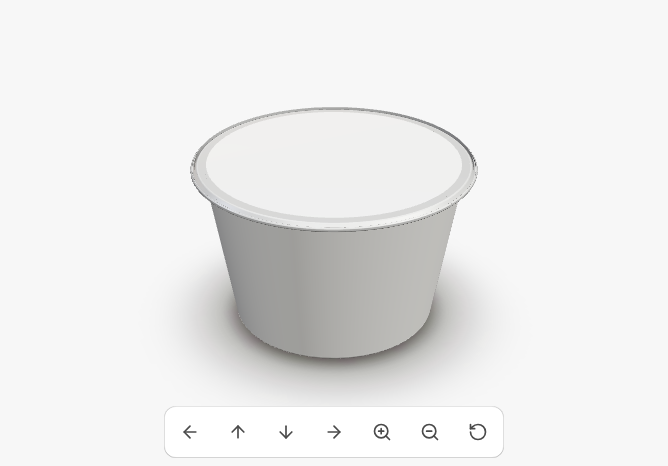
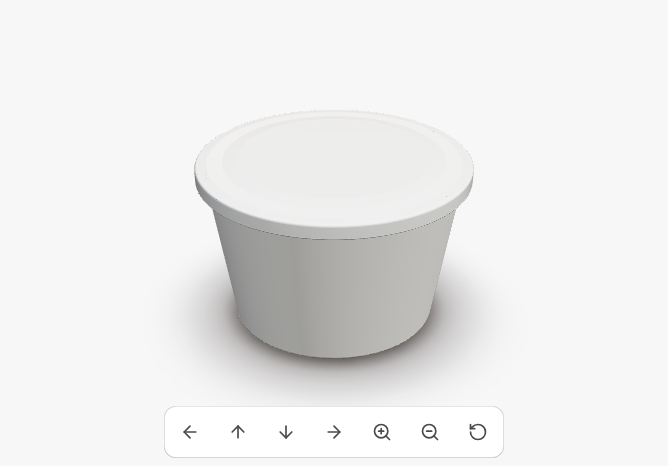
3d(cans): drop the remaining lid hacks, use engine lid styles (round 3)
Merge 3d-engine 4d9d1e7. Square tins use the section-following core SLIP_LID / PLUG_LID style,
paint the LEVER_LID, the deodorant stick a TWIST_UP cap anchored flush with the case top, the
rectangular tub SNAP_LID and the clamshell HINGED_LID over a base tray sized so the closed height
stays H. No renderer closure is hidden or shrunk any more; closureY is only an anchor.

Claude-Session: https://claude.ai/code/session_01ErLBsbrJGKcLzRPdTmLyhq

diff --git a/src/lib/vessels/families/cosmetic-cans/geometry.ts b/src/lib/vessels/families/cosmetic-cans/geometry.ts
@@ -108,23 +108,12 @@ interface Built {
   lid: LidGeometry | null;
   closedH: Mm;
   /**
-   * Where the renderer anchors the nearest core closure (profile.finishTopY). The core closure
-   * models are round and generic; when the real closure is already part of this profile (square
-   * slip lids, lever lids, stick caps) the anchor is moved inside the closed body so the generic
-   * model stays hidden, and for ring-pull ends it is set so the core pull tab lies in the
-   * countersink (tab underside = finishTopY - 5.15 mm).
+   * Where the renderer anchors the closure (profile.finishTopY) when it is not the top of the
+   * profile: the end panel of ring-pull / foil ends, and the anchor that puts a renderer overcap
+   * (BULLET_CAP, TWIST_UP) flush with the case top.
    */
   closureY?: Mm;
-  /** Radius the core closure is built at (profile.finishR); a tiny radius shrinks it out of sight under a lid in the profile. */
-  closureR?: Mm;
 }
-
-/**
- * Closure anchor for clear-plastic tubs and trays whose lid is in the profile: the core closure is
- * shrunk (closureR) and parked just under the base, so it does not show through the clear lid.
- */
-const CLEAR_HIDE_Y: Mm = -2.5;
-
 
 function bottle(s: Extract<ShapeSpec, { type: "bottle" }>, d: CatalogueDims, neck: NeckFinish): Built {
   const R = d.D / 2;
@@ -181,9 +170,12 @@ function radiusAtCtrl(R: Mm, neckR: Mm, t: number, shoulder: "round" | "flat" | 
 function caseShape(s: Extract<ShapeSpec, { type: "case" }>, d: CatalogueDims): Built {
   const R = d.D / 2;
   const H = d.H;
-  // a bullet overcap (renderer BULLET_CAP, h = max(24, 3.2 (R + 1))) hides the split groove under its edge
+  // Overcaps drawn by the renderer; the split groove sits under the cap edge.
+  // BULLET_CAP (lipstick): h = max(24, 3.2 (R + 1)), top = anchor + 0.45 h.
+  // TWIST_UP (stick): from anchor - 18 to anchor + max(8, (R + 0.6) / 2).
   const bulletH = Math.max(24, 3.2 * (R + 1));
-  const split = s.cap === "bullet" ? Math.max(H * 0.3, H - bulletH + 0.8) : H * s.capSplit;
+  const twistUp = Math.max(8, (R + 0.6) * 0.5);
+  const split = s.cap === "bullet" ? Math.max(H * 0.3, H - bulletH + 0.8) : s.cap === "twist" ? Math.max(H * 0.3, H - twistUp - 18 + 0.8) : H * s.capSplit;
   const ch = Math.min(1.2, R * 0.08);
   const ctrl: ControlPoint[] = [
     { r: 0, y: 0 },
@@ -208,10 +200,8 @@ function caseShape(s: Extract<ShapeSpec, { type: "case" }>, d: CatalogueDims): B
     fillMaxY: split,
   });
   const lid: LidGeometry = { type: s.capSplit > 0.5 && H < 35 ? "hinged" : "slip", section: s.section, y0: split, y1: H, r: R, depthRatio: (d.G ?? d.D) / d.D, topR: R - ch - 2 };
-  // Non-round cases (oval deodorant stick): the round core cap would overhang the oval; the cap is
-  // already in this profile, so hide the core closure inside it.
-  // anchor the bullet cap (top = anchor + 0.45 h) so its top is the case top
-  const closureY = s.cap === "bullet" ? H - 0.45 * bulletH : isRound(s.section) ? undefined : H - 4;
+  // anchor the renderer's overcap so its top is the case top
+  const closureY = s.cap === "bullet" ? H - 0.45 * bulletH : s.cap === "twist" ? H - twistUp : undefined;
   return { profile, innerTopY: split, sleeveY0: 0.5, sleeveY1: H - 0.5, lid, closedH: H, closureY };
 }
 
@@ -358,11 +348,10 @@ function metalcan(s: Extract<ShapeSpec, { type: "metalcan" }>, d: CatalogueDims)
     depthRatio: section.kind === "round" ? 1 : section.depthRatio,
     topR: R - endIn - 2,
   };
-  // Closure anchor on the end panel: the renderer's mouth styles (EOE_RING ring pull, PEEL_FOIL)
-  // sit there, and the generic core can-end tab (5 mm below the anchor) stays under the panel for a
-  // plain double-seam end. Lever lid (paint): no renderer style yet, so the core closure is hidden
-  // under the recessed lid panel that this profile draws.
-  const closureY = lid.type === "lever" ? H - s.endDepthMm - 1 : H - s.endDepthMm;
+  // Ring-pull and foil ends: anchor on the end panel, where the renderer's EOE_RING / PEEL_FOIL sit
+  // (a plain double-seam end keeps the generic core tab under the panel). Lever lids: the renderer's
+  // LEVER_LID plugs into the chime from the seam top (default anchor H).
+  const closureY = lid.type === "lever" ? undefined : H - s.endDepthMm;
   return { profile, innerTopY: H - s.endDepthMm, sleeveY0: bodyY0 - 1, sleeveY1: bodyY1 + 1, lid, closedH: H, closureY };
 }
 
@@ -375,33 +364,17 @@ function tin(s: Extract<ShapeSpec, { type: "tin" }>, d: CatalogueDims): Built {
   const R = d.D / 2;
   const H = d.H;
   const lidH = tinLidH(d);
-  const round = isRound(s.section);
-  const ctrl: ControlPoint[] = round
-    ? [
-        // round tins: open body with a rolled rim; the core slip lid closes it
-        { r: 0, y: 0.6 },
-        { r: R - 1.5, y: 0, round: 0.8 },
-        { r: R, y: 1.6, round: 1 },
-        { r: R, y: H - 1.4, round: 0.5 },
-        { r: R - 0.8, y: H, round: 0.4 },
-        { r: R - 1.1, y: H - 0.5 },
-        { r: R - 1.1, y: H - 6 },
-      ]
-    : [
-        // square / rect tins: the core slip lid is round, so the lid is part of this profile:
-        // body, lid skirt stepping out 0.8 mm with a curled edge, rounded top edge, embossed panel
-        { r: 0, y: 0.6 },
-        { r: R - 1.5, y: 0, round: 0.8 },
-        { r: R, y: 1.6, round: 1 },
-        { r: R, y: H - lidH - 0.6, round: 0.3 },
-        { r: R + 0.5, y: H - lidH - 0.4, round: 0.25 },
-        { r: R + 0.8, y: H - lidH + 0.4, round: 0.3 },
-        { r: R + 0.8, y: H - 1.7, round: 1.4 },
-        { r: R - 0.6, y: H - 0.3, round: 0.9 },
-        { r: R - 5, y: H - 0.3, round: 0.6 },
-        { r: R - 6, y: H, round: 0.6 },
-        { r: 0, y: H },
-      ];
+  // open body with a rolled rim for every section: the renderer's slip lid (core SLIP_LID) and plug
+  // lid (PLUG_LID style) follow the section, square tins included
+  const ctrl: ControlPoint[] = [
+    { r: 0, y: 0.6 },
+    { r: R - 1.5, y: 0, round: 0.8 },
+    { r: R, y: 1.6, round: 1 },
+    { r: R, y: H - 1.4, round: 0.5 },
+    { r: R - 0.8, y: H, round: 0.4 },
+    { r: R - 1.1, y: H - 0.5 },
+    { r: R - 1.1, y: H - 6 },
+  ];
   const section = crossSection(s.section, d, 0.1);
   const profile = finalize(ctrl, section, {
     wallMm: 0.25,
@@ -421,7 +394,7 @@ function tin(s: Extract<ShapeSpec, { type: "tin" }>, d: CatalogueDims): Built {
     depthRatio: section.kind === "round" ? 1 : section.depthRatio,
     topR: R + 0.6 - 4,
   };
-  return { profile, innerTopY: H - 1, sleeveY0: 1, sleeveY1: H - lidH - 0.5, lid, closedH: round ? H + 0.6 : H, closureY: round ? undefined : H - 2 };
+  return { profile, innerTopY: H - 1, sleeveY0: 1, sleeveY1: H - lidH - 0.5, lid, closedH: H + 0.6 };
 }
 
 /** Aerosol can: domed/concave base, ogive shoulder, 1 inch valve-cup curl. */
@@ -476,57 +449,40 @@ function cup(s: Extract<ShapeSpec, { type: "cup" }>, d: CatalogueDims): Built {
   const f = s.flangeMm;
   const section = crossSection(s.section, d, s.section === "round" ? 0.2 : 0.18);
   if (s.lid === "hinged") {
-    // closed clamshell: base tray to the hinge line, lid tray above (mirrored taper)
-    const hb = H * 0.55;
+    // Clamshell base tray with its flange. The renderer's HINGED_LID draws the mirrored lid tray,
+    // max(8, min(30, 0.35 hb)) deep above the flange, so pick the hinge line hb for a closed height H.
+    const lidDepth = (y: Mm) => Math.max(8, Math.min(30, 0.35 * y));
+    const hb = lidDepth(H / 1.35) === 0.35 * (H / 1.35) ? H / 1.35 : lidDepth(H / 1.35) === 30 ? H - 30 : H - 8;
     const Rm = Rt; // flange line (widest)
-    const RtLid = Rb + (Rt - Rb) * 0.35;
     const ctrl: ControlPoint[] = [
       { r: 0, y: 0 },
       { r: Rb, y: 0, round: Math.min(4, Rb * 0.1) },
       { r: Rm - f, y: hb - 1, round: 1 },
       { r: Rm, y: hb - 0.4, round: 0.5 },
-      { r: Rm, y: hb + 0.4, round: 0.5 },
-      { r: Rm - f, y: hb + 1, round: 1 },
-      { r: RtLid, y: H, round: Math.min(5, RtLid * 0.12) },
-      { r: 0, y: H },
+      { r: Rm, y: hb, round: 0.3 },
+      { r: Rm - f, y: hb, round: 0.3 },
+      { r: Rm - f - 0.3, y: hb - 3 },
     ];
     const profile = finalize(ctrl, section, {
       wallMm: s.wallMm,
       baseMm: s.wallMm,
       body: { y0: 2, y1: hb - 2, r0: Rb + (Rm - f - Rb) * (2 / hb), r1: Rb + (Rm - f - Rb) * ((hb - 2) / hb) },
-      finishTopY: H,
+      finishTopY: hb,
       finishR: Rm,
       finishH: 0,
       fillMaxY: hb,
     });
-    const lid: LidGeometry = { type: "hinged", section: s.section, y0: hb, y1: H, r: Rm, depthRatio: section.kind === "round" ? 1 : section.depthRatio, topR: RtLid - 4 };
-    // the lid tray is in the profile: shrink the round core closure out of sight under it
-    return { profile, innerTopY: H - s.wallMm, sleeveY0: 1, sleeveY1: hb - 1, lid, closedH: H, closureY: CLEAR_HIDE_Y, closureR: 0.4 };
+    const lid: LidGeometry = { type: "hinged", section: s.section, y0: hb, y1: H, r: Rm, depthRatio: section.kind === "round" ? 1 : section.depthRatio, topR: Rm - 4 };
+    return { profile, innerTopY: hb - s.wallMm, sleeveY0: 1, sleeveY1: hb - 1, lid, closedH: H };
   }
-  // Non-round tubs: the round core snap lid cannot follow the footprint and the renderer has no snap
-  // style yet, so the lid (skirt over the flange, recessed panel) is part of this profile and the
-  // core closure is shrunk out of sight. Film lids are drawn by the renderer (PEEL_FOIL follows the
-  // section). Round cups keep the core lid.
-  const ownLid = !isRound(s.section) && s.lid === "snap";
-  const foilOnly = !isRound(s.section) && s.lid === "foil";
-  const snapT = s.lid === "snap" ? Math.max(6, Math.min(10, H * 0.08)) : 0;
-  const rimY = ownLid ? H - snapT + 1 : H - 1.2;
-  const top: ControlPoint[] = !ownLid
-    ? [
-        { r: Rt + f, y: H, round: 0.4 },
-        { r: Rt - s.wallMm, y: H, round: 0.3 },
-        { r: Rt - s.wallMm - 0.2, y: H - 3 },
-      ]
-    : [
-          { r: Rt + f, y: rimY + 0.4, round: 0.3 },
-          { r: Rt + f + 1, y: rimY - 0.6, round: 0.3 },
-          { r: Rt + f + 1.4, y: rimY - 0.2, round: 0.4 },
-          { r: Rt + f + 1.4, y: H - 1.6, round: 1.6 },
-          { r: Rt + f - 1, y: H, round: 1 },
-          { r: Rt - 3, y: H, round: 0.8 },
-          { r: Rt - 4.5, y: H - 0.8, round: 0.8 },
-          { r: 0, y: H - 0.8 },
-        ];
+  // Tubs and cups: open rim with a flange; snap lids (SNAP_LID), film lids (PEEL_FOIL) and hinged
+  // options are drawn by the renderer and follow the section.
+  const rimY = H - 1.2;
+  const top: ControlPoint[] = [
+    { r: Rt + f, y: H, round: 0.4 },
+    { r: Rt - s.wallMm, y: H, round: 0.3 },
+    { r: Rt - s.wallMm - 0.2, y: H - 3 },
+  ];
   const ctrl: ControlPoint[] = [
     { r: 0, y: 1.2 },
     { r: Rb - 2, y: 0, round: 1 },
@@ -550,10 +506,6 @@ function cup(s: Extract<ShapeSpec, { type: "cup" }>, d: CatalogueDims): Built {
   const lidT = s.lid === "snap" ? Math.max(6, Math.min(14, H * 0.12)) : s.lid === "foil" ? 0.1 : 0;
   const lid: LidGeometry | null =
     s.lid === "none" ? null : { type: s.lid, section: s.section, y0: H - (s.lid === "snap" ? 2 : 0), y1: H + lidT, r: Rt + f + (s.lid === "snap" ? 1 : 0), depthRatio: section.kind === "round" ? 1 : section.depthRatio, topR: Rt - 3 };
-  if (ownLid) return { profile, innerTopY: H - 0.5, sleeveY0: 2, sleeveY1: rimY - 1.5, lid, closedH: H, closureY: CLEAR_HIDE_Y, closureR: 0.4 };
-  // film-lidded trays: the renderer's PEEL_FOIL covers the rim; a non-film option (hinged lid) has
-  // no style yet and falls back to a round core lid, so shrink that fallback to a speck
-  if (foilOnly) return { profile, innerTopY: H - 0.5, sleeveY0: 2, sleeveY1: rimY - 1.5, lid, closedH: lid ? lid.y1 : H, closureR: 0.4 };
   return { profile, innerTopY: H - 0.5, sleeveY0: 2, sleeveY1: rimY - 1.5, lid, closedH: lid ? lid.y1 : H };
 }
 
@@ -623,7 +575,6 @@ export function buildGeometry(shape: ShapeSpec, d: CatalogueDims, neck?: NeckFin
       break;
   }
   if (b.closureY !== undefined) b = { ...b, profile: { ...b.profile, finishTopY: b.closureY } };
-  if (b.closureR !== undefined) b = { ...b, profile: { ...b.profile, finishR: b.closureR } };
   if (kind === "lathe" && b.profile.section.kind === "roundedRect") kind = "extrusion";
   return {
     kind,

diff --git a/src/lib/vessels/families/cosmetic-cans/__tests__/closures.test.ts b/src/lib/vessels/families/cosmetic-cans/__tests__/closures.test.ts
@@ -23,41 +23,40 @@ describe("closure anchors (core closure placement)", () => {
     expect(g.profile!.finishTopY + 0.45 * h).toBeCloseTo(d.H, 3);
   });
 
-  it.each(["TIN-GIFT-SQUARE", "TIN-TEA-CADDY", "CAN-PAINT", "COS-DEO-STICK"])("%s: lid is in the profile and the round core closure is hidden inside", (code) => {
+  it.each(["TIN-GIFT-SQUARE", "TIN-TEA-CADDY"])("%s: open rim at H for the renderer's section-following slip / plug lid", (code) => {
     const { def, d, g } = geo(code);
-    expect(def.coreKind).toBe("CAN");
+    expect(def.coreKind).toBe("ROUND_TIN");
     const p = g.profile!;
-    expect(p.finishTopY).toBeLessThan(d.H);
-    // closed top: the profile ends on the axis at the top
-    const last = p.outer[p.outer.length - 1];
-    expect(last.r).toBeLessThan(0.5);
-    expect(last.y).toBeGreaterThan(d.H - 8);
+    expect(p.section.kind).toBe("roundedRect");
+    expect(p.finishTopY).toBeCloseTo(d.H, 1);
+    expect(p.outer.at(-1)!.r).toBeGreaterThan(d.D / 2 - 5); // open: ends on the inner rim wall, not the axis
   });
 
-  it("square tins: slip-lid skirt stands proud of the body", () => {
-    const { d, g } = geo("TIN-GIFT-SQUARE");
-    const maxR = Math.max(...g.profile!.outer.map((q) => q.r));
-    expect(maxR).toBeGreaterThan(d.D / 2 + 0.5);
+  it("CAN-PAINT: renderer LEVER_LID anchored on the seam top", () => {
+    const { d, g } = geo("CAN-PAINT");
+    expect(g.profile!.finishTopY).toBeCloseTo(d.H, 0);
+  });
+
+  it("COS-DEO-STICK: TWIST_UP overcap anchored so its top is the case top", () => {
+    const { d, g } = geo("COS-DEO-STICK");
+    const R = d.D / 2;
+    expect(g.profile!.finishTopY + Math.max(8, (R + 0.6) * 0.5)).toBeCloseTo(d.H, 3);
   });
 });
 
-describe("non-round tubs and trays (3d-visual V-12)", () => {
-  it.each(["TUB-ICE-RECT", "TRAY-CLAMSHELL"])("%s: lid in the profile follows the footprint, core closure shrunk and parked under the base", (code) => {
+describe("non-round tubs and trays (3d-visual V-12): lids drawn by the renderer, following the section", () => {
+  it.each(["TUB-ICE-RECT", "TRAY-PUNNET"])("%s: open flanged rim at H for SNAP_LID / PEEL_FOIL", (code) => {
     const { d, g } = geo(code);
     const p = g.profile!;
     expect(p.section.kind).toBe("roundedRect");
-    expect(p.finishR).toBeLessThan(1);
-    expect(p.finishTopY).toBeLessThan(0);
-    const last = p.outer[p.outer.length - 1];
-    expect(last.r).toBeLessThan(0.5);
-    expect(last.y).toBeGreaterThan(d.H - 1);
+    expect(p.finishTopY).toBeCloseTo(d.H, 1);
+    expect(p.finishR).toBeGreaterThan(d.D / 2 - 1);
   });
 
-  it("TRAY-PUNNET: open rim at H for the renderer's section-following PEEL_FOIL; round fallback shrunk", () => {
-    const { d, g } = geo("TRAY-PUNNET");
-    const p = g.profile!;
-    expect(p.finishTopY).toBeCloseTo(d.H, 1);
-    expect(p.finishR).toBeLessThan(1);
-    expect(Math.max(...p.outer.map((q) => q.y))).toBeCloseTo(d.H, 1);
+  it("TRAY-CLAMSHELL: base tray to the hinge line; HINGED_LID closes it at H", () => {
+    const { d, g } = geo("TRAY-CLAMSHELL");
+    const hb = g.profile!.finishTopY;
+    expect(hb).toBeLessThan(d.H);
+    expect(hb + Math.max(8, Math.min(30, 0.35 * hb))).toBeCloseTo(d.H, 1);
   });
 });

diff --git a/src/lib/vessels/families/cosmetic-cans/definitions/cans.ts b/src/lib/vessels/families/cosmetic-cans/definitions/cans.ts
@@ -82,7 +82,7 @@ export const CAN_DEFINITIONS: CatalogueVesselDefinition[] = [
     family: "CAN",
     subFamily: FISH,
     standard: "ISO 1361 (83 mm / 307 end)",
-    coreKind: "CAN", // closure drawn by the profile (core CAN_END tab placed / hidden by geometry.ts closureY)
+    coreKind: "CAN", // can-end core: no lid-label disc; the renderer draws EOE_RING / LEVER_LID
     geometry: "lathe",
     shape: { type: "metalcan", section: "round", bottomSeam: false, beads: false, endDepthMm: 3.2 },
     materials: ["TINPLATE", "ALUMINIUM"],
@@ -196,7 +196,7 @@ export const CAN_DEFINITIONS: CatalogueVesselDefinition[] = [
     family: "CAN",
     subFamily: DECO,
     standard: null,
-    coreKind: "CAN", // closure drawn by the profile (core CAN_END tab placed / hidden by geometry.ts closureY)
+    coreKind: "ROUND_TIN",
     geometry: "extrusion",
     shape: { type: "tin", section: "square", lid: "slip" },
     materials: ["TINPLATE"],
@@ -224,7 +224,7 @@ export const CAN_DEFINITIONS: CatalogueVesselDefinition[] = [
     family: "CAN",
     subFamily: DECO,
     standard: null,
-    coreKind: "CAN", // closure drawn by the profile (core CAN_END tab placed / hidden by geometry.ts closureY)
+    coreKind: "ROUND_TIN",
     geometry: "extrusion",
     shape: { type: "tin", section: "square", lid: "plug" },
     materials: ["TINPLATE"],
@@ -253,7 +253,7 @@ export const CAN_DEFINITIONS: CatalogueVesselDefinition[] = [
     family: "CAN",
     subFamily: IND,
     standard: "IS 2552 (BIS round paint tins, lever lid) as reference",
-    coreKind: "CAN", // closure drawn by the profile (core CAN_END tab placed / hidden by geometry.ts closureY)
+    coreKind: "CAN", // can-end core: no lid-label disc; the renderer draws EOE_RING / LEVER_LID
     geometry: "lathe",
     shape: { type: "metalcan", section: "round", bottomSeam: true, beads: false, endDepthMm: 7 },
     materials: ["TINPLATE"],

diff --git a/src/lib/vessels/families/cosmetic-cans/__tests__/catalogue.test.ts b/src/lib/vessels/families/cosmetic-cans/__tests__/catalogue.test.ts
@@ -135,8 +135,11 @@ describe("geometry", () => {
     for (const q of p.outer) expect(q.r).toBeGreaterThanOrEqual(0);
     expect(p.body.y1).toBeGreaterThan(p.body.y0);
     if (g.kind !== "tube") {
-      // closed height = H (profile tops out at H; tubes add their cap below)
-      expect(Math.max(...ys)).toBeCloseTo(preset.dims.H, 0);
+      // closed height = H (profile tops out at H; tubes add their cap below). A clamshell's lid tray is
+      // drawn by the renderer (HINGED_LID, max(8, min(30, 0.35 hb)) deep above the hinge line hb).
+      const hinged = def.shape.type === "cup" && def.shape.lid === "hinged";
+      const top = Math.max(...ys);
+      expect(hinged ? top + Math.max(8, Math.min(30, 0.35 * top)) : top).toBeCloseTo(preset.dims.H, 0);
       // body radius = D/2 (cups: interpolated between base and rim)
       const mid = (p.body.y0 + p.body.y1) / 2;
       const expected = def.shape.type === "cup" ? (p.body.r0 + p.body.r1) / 2 : preset.dims.D / 2;

diff --git a/src/lib/vessels/families/cosmetic-cans/types.ts b/src/lib/vessels/families/cosmetic-cans/types.ts
@@ -155,7 +155,7 @@ export type ShapeSpec =
       /** Decorative collar over the crimp finish (perfume), mm high. */
       collarMm?: Mm;
     }
-  | { type: "case"; section: SectionKind; capSplit: number; wallMm: Mm; /** "bullet": separate overcap drawn by the renderer (lipstick); the split sits under its edge. */ cap?: "bullet" }
+  | { type: "case"; section: SectionKind; capSplit: number; wallMm: Mm; /** Overcap drawn by the renderer: "bullet" (lipstick), "twist" (stick); the split sits under its edge. */ cap?: "bullet" | "twist" }
   | { type: "ampoule" }
   | { type: "jar"; doubleWall: boolean; wallMm: Mm; baseMm: Mm }
   | { type: "bevcan" }

diff --git a/src/lib/vessels/families/cosmetic-cans/definitions/cosmetic.ts b/src/lib/vessels/families/cosmetic-cans/definitions/cosmetic.ts
@@ -199,9 +199,9 @@ export const COSMETIC_DEFINITIONS: CatalogueVesselDefinition[] = [
     family: "COSMETIC",
     subFamily: BODY,
     standard: null,
-    coreKind: "CAN", // cap is in the profile; core closure hidden (geometry.ts closureY)
+    coreKind: null,
     geometry: "extrusion",
-    shape: { type: "case", section: "stadium", capSplit: 0.78, wallMm: 1.8 },
+    shape: { type: "case", section: "stadium", capSplit: 0.78, wallMm: 1.8, cap: "twist" },
     materials: ["PP_WHITE", "PP_NATURAL"],
     defaultMaterial: "PP_WHITE",
     closures: ["TWIST_UP"],

diff --git a/docs/audit/3d-cans-flexible.md b/docs/audit/3d-cans-flexible.md
@@ -92,3 +92,21 @@ Still open:
 In `src/lib/library/vessels.ts`:
 - `COSMETIC`: `const shown = COS.displaySurfaces(def);` then `surfaces: shown.surfaces, defaultSurfaces: shown.defaultSurfaces` (replaces the `isSurface` filter), and `defaultLiquid: COS.displayLiquid(def)`.
 - `FLEXIBLE`: `defaultSurfaces: FLEX.defaultPrintPanels(def.code)`, and in `describe`: `envelope: FLEX.flexDisplayEnvelope(cfg)`.
+
+## Round 3
+
+Merged `origin/claude/exciting-albattani-8kzgsu-3d-engine` 4d9d1e7: section-following `PLUG_LID`, `LEVER_LID`, `SNAP_LID`, `HINGED_LID`, `TWIST_UP` closure styles, a section-following core `SLIP_LID`, the oval tube body (E-09) and the EOE ring depth fix. Every remaining lid hack is gone; `geometry.ts` no longer hides or shrinks any renderer closure. Sheets: `round3-lids-before.jpg` / `round3-lids-after.jpg`.
+
+| ID | Sev | Model / file | Change | Status |
+|---|---|---|---|---|
+| R3-01 | high | TIN-GIFT-SQUARE, TIN-TEA-CADDY · `geometry.ts · tin`, `definitions/cans.ts` | Profile-built square lid removed: open rolled rim for every section, core `ROUND_TIN` again. The renderer's `SLIP_LID` (square / rect section) and `PLUG_LID` style draw the lid. | fixed |
+| R3-02 | high | CAN-PAINT · `geometry.ts · metalcan` | Hidden-closure anchor removed; the renderer's `LEVER_LID` plugs into the chime from the seam top. | fixed |
+| R3-03 | high | COS-DEO-STICK · `geometry.ts · caseShape`, `definitions/cosmetic.ts` | Core-hiding removed (core back to the family default). New `cap: "twist"`: the renderer's `TWIST_UP` oval dome cap is anchored so its top is the case top, with the split groove under its edge. | fixed |
+| R3-04 | high | TUB-ICE-RECT · `geometry.ts · cup` | Profile-built snap lid and shrunk fallback removed; the renderer's `SNAP_LID` follows the rectangle. | fixed |
+| R3-05 | high | TRAY-CLAMSHELL · `geometry.ts · cup` | Profile is now the base tray with its flange; the renderer's `HINGED_LID` draws the lid. Hinge line `hb` solves `hb + max(8, min(30, 0.35 hb)) = H`, so the closed height is still H. The catalogue test checks that sum instead of the profile top. | fixed |
+| R3-06 | medium | TRAY-PUNNET | Round fallback shrink removed; both options (`TOP_SEAL_FILM`, `HINGED_LID`) are now renderer styles. | fixed |
+| R3-07 | medium | CAN-SARDINE, CAN-OVAL-FISH (EOE ring), TUBE-OVAL (E-09) | Verified after the engine fixes: the ring sits on the panel and the oval tube is flattened. | fixed (engine) |
+
+What is left of `closureY`: anchors only. End panel for ring-pull and foil ends, and the anchor that puts `BULLET_CAP` / `TWIST_UP` flush with the case top. The overcap anchors mirror the renderer's cap formulas (noted at both places). If those formulas change, update `caseShape`.
+
+Still open: E-02 / E-03 / E-06 / E-07 library hook (Round 2) and E-08 (flex options UI).
